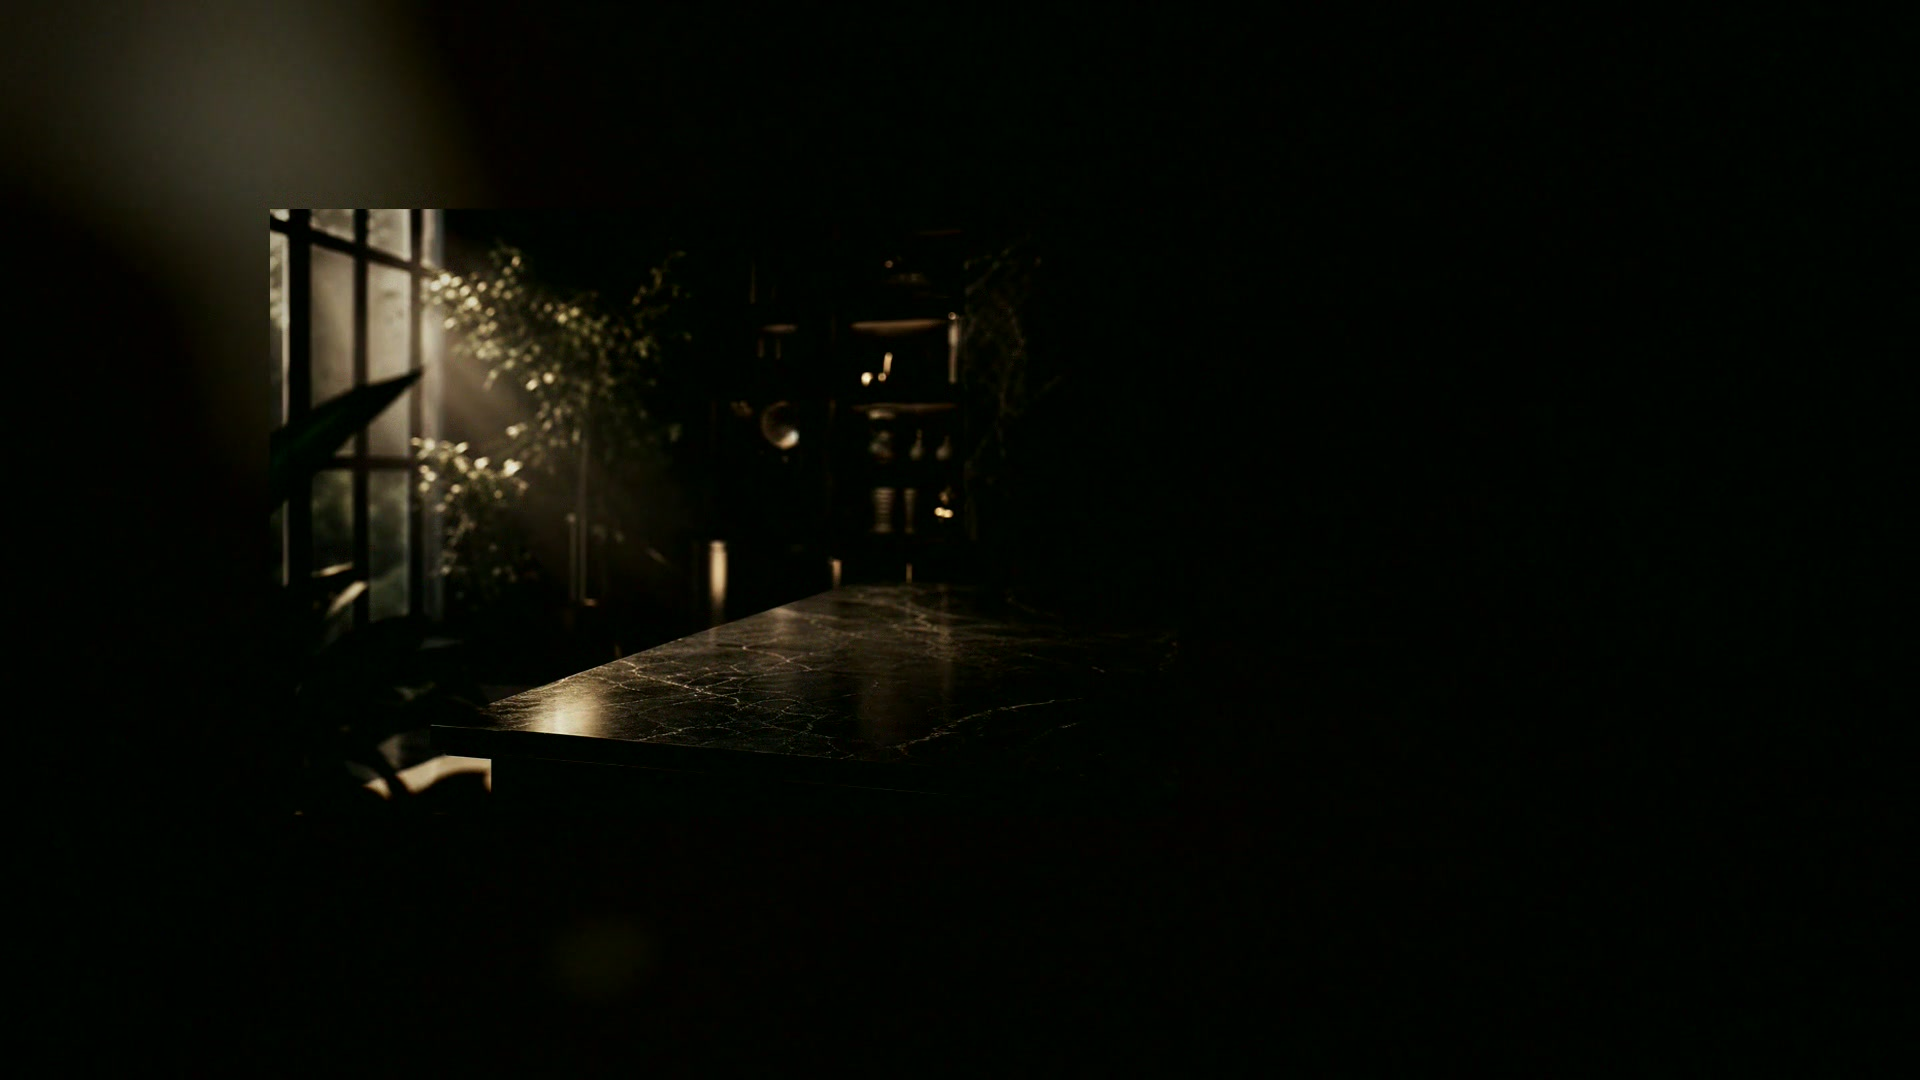
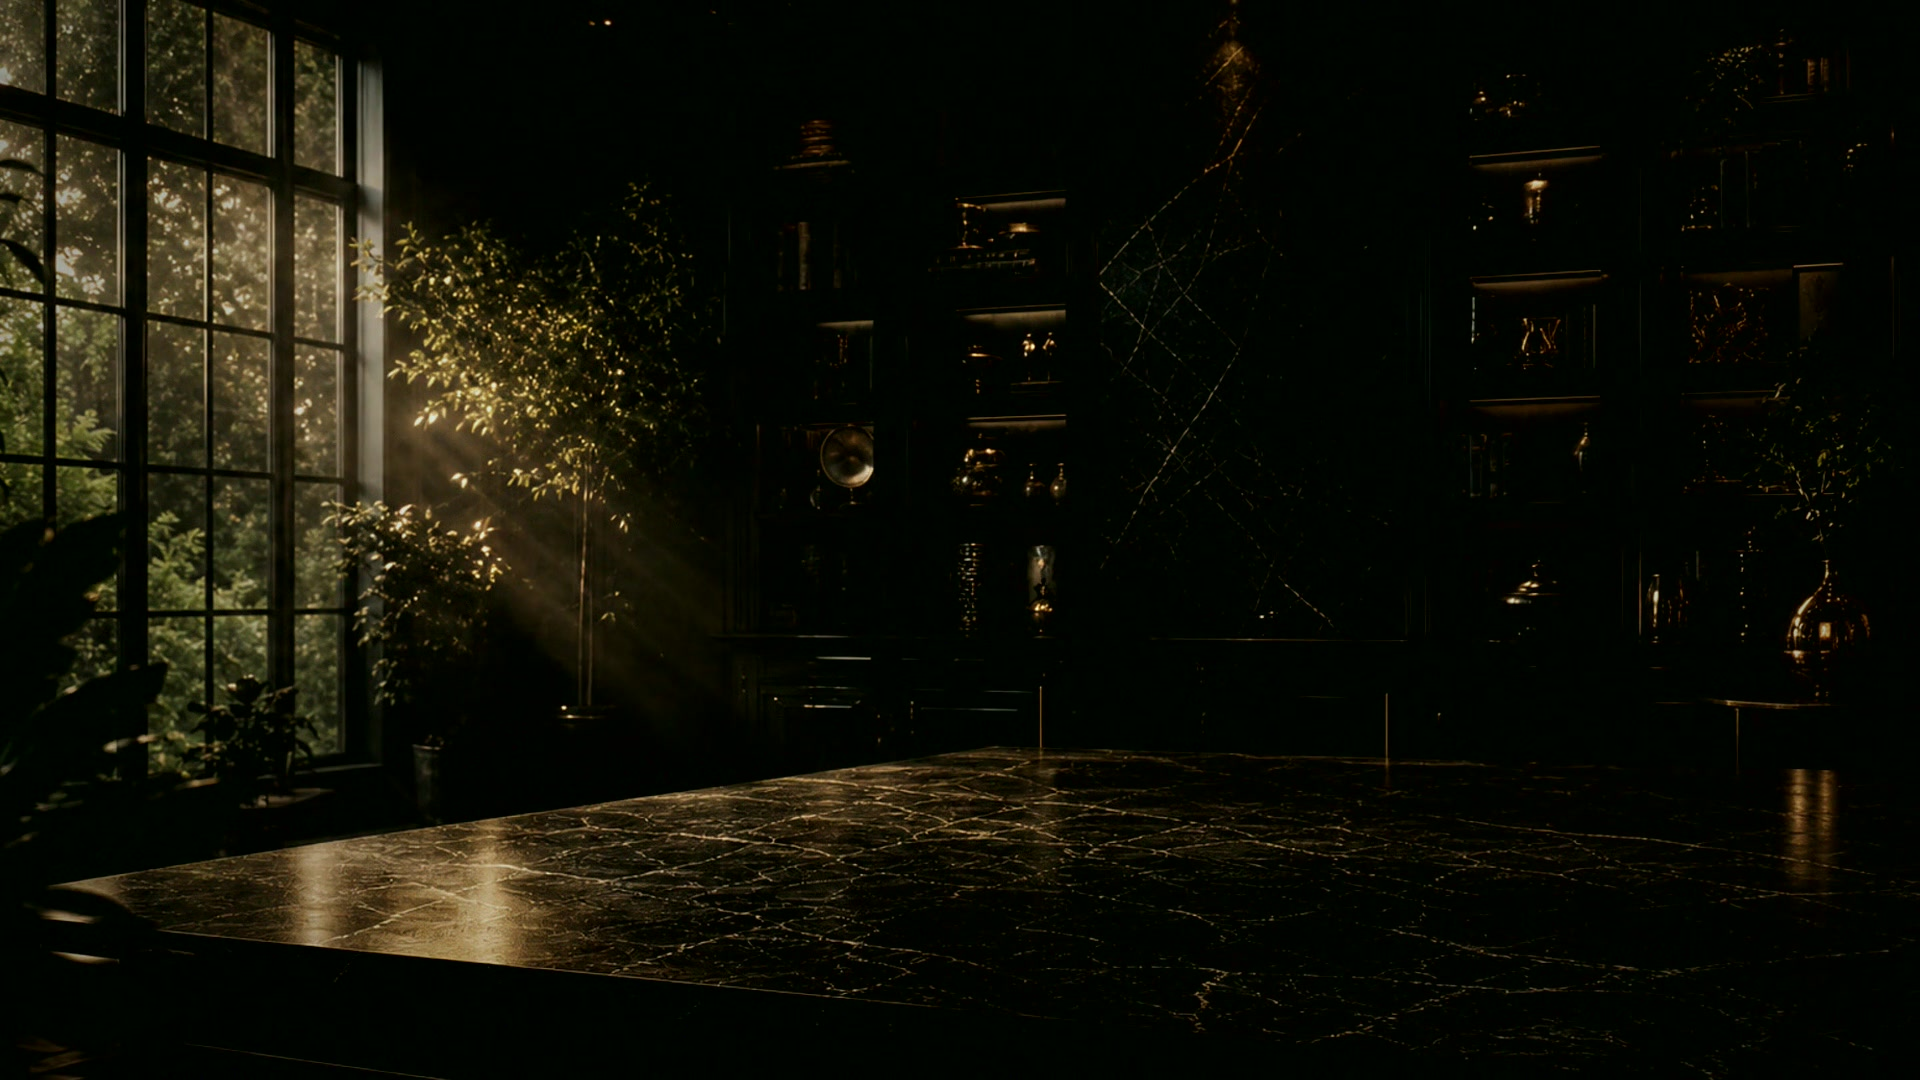
Tip laptop down slightly, quiet dust, and fill hero with generative wide plate.

diff --git a/src/components/three/HeroCanvas.tsx b/src/components/three/HeroCanvas.tsx
@@ -37,7 +37,7 @@ function ParallaxPlate({ children }: { children: React.ReactNode }) {
       pos.current.x = expSmooth(pos.current.x, tx, 14, dt);
       pos.current.y = expSmooth(pos.current.y, ty, 14, dt);
       if (ref.current) {
-        ref.current.style.transform = `translate3d(${pos.current.x}px, ${pos.current.y}px, 0) scale(1.02)`;
+        ref.current.style.transform = `translate3d(${pos.current.x}px, ${pos.current.y}px, 0) scale(1.01)`;
       }
       raf = requestAnimationFrame(tick);
     };
@@ -46,13 +46,13 @@ function ParallaxPlate({ children }: { children: React.ReactNode }) {
   }, [input]);
 
   return (
-    <div ref={ref} className="absolute inset-[-1%] will-change-transform">
+    <div ref={ref} className="absolute inset-0 will-change-transform">
       {children}
     </div>
   );
 }
 
-const HERO_VIDEO_CLASS = "object-cover object-[32%_38%] md:object-[38%_40%]";
+const HERO_VIDEO_CLASS = "object-cover object-center";
 
 function HeroPlate() {
   return (
@@ -62,7 +62,7 @@ function HeroPlate() {
           srcBase="/videos/hero-desk-loop"
           poster="/videos/hero-desk-loop-poster.jpg"
           priority
-          revision="8"
+          revision="9"
           alt="Arcform cinematic design studio"
           videoClassName={HERO_VIDEO_CLASS}
         />
@@ -109,7 +109,7 @@ export function HeroCanvas() {
           srcBase="/videos/hero-desk-loop"
           poster="/videos/hero-desk-loop-poster.jpg"
           priority
-          revision="8"
+          revision="9"
           alt="Arcform cinematic design studio"
           videoClassName={HERO_VIDEO_CLASS}
         />
@@ -142,7 +142,7 @@ export function HeroCanvas() {
           srcBase="/videos/hero-desk-loop"
           poster="/videos/hero-desk-loop-poster.jpg"
           priority
-          revision="8"
+          revision="9"
           alt="Arcform cinematic design studio"
           videoClassName={HERO_VIDEO_CLASS}
         />

diff --git a/src/lib/heroLayout.ts b/src/lib/heroLayout.ts
@@ -17,8 +17,7 @@ export type HeroLayout = {
 };
 
 /**
- * Desk-planted MacBook — planted flat like the ab87bd5 sit,
- * yawed toward hero copy (not away / not tilted).
+ * Desk-planted MacBook — slight downward tip, yawed toward hero copy.
  */
 export function getHeroLayout(width: number): HeroLayout {
   const mobile = width < 768;
@@ -33,7 +32,7 @@ export function getHeroLayout(width: number): HeroLayout {
       laptopScale: 0.028,
       laptopBaseY: -0.12,
       laptopBaseZ: 0.05,
-      laptopRotX: 0.02,
+      laptopRotX: 0.1,
       laptopRotY: -0.32,
       cameraPosition: [0.05, 0.42, 3.45],
       cameraFov: 42,
@@ -50,8 +49,8 @@ export function getHeroLayout(width: number): HeroLayout {
     laptopScale: 0.046,
     laptopBaseY: -0.28,
     laptopBaseZ: 0.05,
-    // Flat on desk (no pitch slant); face left toward ARCFORM copy
-    laptopRotX: 0.02,
+    // Slight downward tip toward the desk; face left toward ARCFORM copy
+    laptopRotX: 0.12,
     laptopRotY: -0.4,
     cameraPosition: [0.12, 0.44, 3.15],
     cameraFov: 36,

diff --git a/src/components/ui/AmbientGlimmer.tsx b/src/components/ui/AmbientGlimmer.tsx
@@ -71,8 +71,8 @@ export function AmbientGlimmer({ className }: { className?: string }) {
       const t = now / 1000;
       ctx.clearRect(0, 0, w, h);
 
-      // Soft light shaft shimmer — 30% quieter than prior pass
-      const pulse = 0.098 + 0.077 * Math.sin(t * 0.85);
+      // Soft light shaft shimmer — quieter dust (-10% from prior)
+      const pulse = 0.088 + 0.069 * Math.sin(t * 0.85);
       const g = ctx.createLinearGradient(0, 0, w * 0.6, h * 0.75);
       g.addColorStop(0, `rgba(255, 210, 160, ${pulse})`);
       g.addColorStop(0.4, `rgba(255, 180, 120, ${pulse * 0.45})`);
@@ -84,7 +84,7 @@ export function AmbientGlimmer({ className }: { className?: string }) {
       const sweep = ((t * 0.1) % 1.4) - 0.2;
       const sg = ctx.createLinearGradient(w * sweep, 0, w * (sweep + 0.28), h * 0.55);
       sg.addColorStop(0, "rgba(255,255,255,0)");
-      sg.addColorStop(0.5, "rgba(255, 230, 190, 0.07)");
+      sg.addColorStop(0.5, "rgba(255, 230, 190, 0.063)");
       sg.addColorStop(1, "rgba(255,255,255,0)");
       ctx.fillStyle = sg;
       ctx.fillRect(0, 0, w, h);
@@ -101,7 +101,7 @@ export function AmbientGlimmer({ className }: { className?: string }) {
 
         const twinkle = 0.35 + 0.65 * (0.5 + 0.5 * Math.sin(t * s.tw + s.phase));
         ctx.beginPath();
-        ctx.fillStyle = `rgba(255, 236, 210, ${s.a * twinkle * 0.7})`;
+        ctx.fillStyle = `rgba(255, 236, 210, ${s.a * twinkle * 0.63})`;
         ctx.arc(s.x, s.y, s.r, 0, Math.PI * 2);
         ctx.fill();
       }

diff --git a/src/components/ui/CinematicVideo.tsx b/src/components/ui/CinematicVideo.tsx
@@ -27,7 +27,7 @@ export function CinematicVideo({
   priority = false,
   opacity = 1,
   alt = "",
-  revision = "8",
+  revision = "9",
 }: CinematicVideoProps) {
   const ref = useRef<HTMLVideoElement>(null);
   const [reduced, setReduced] = useState(false);